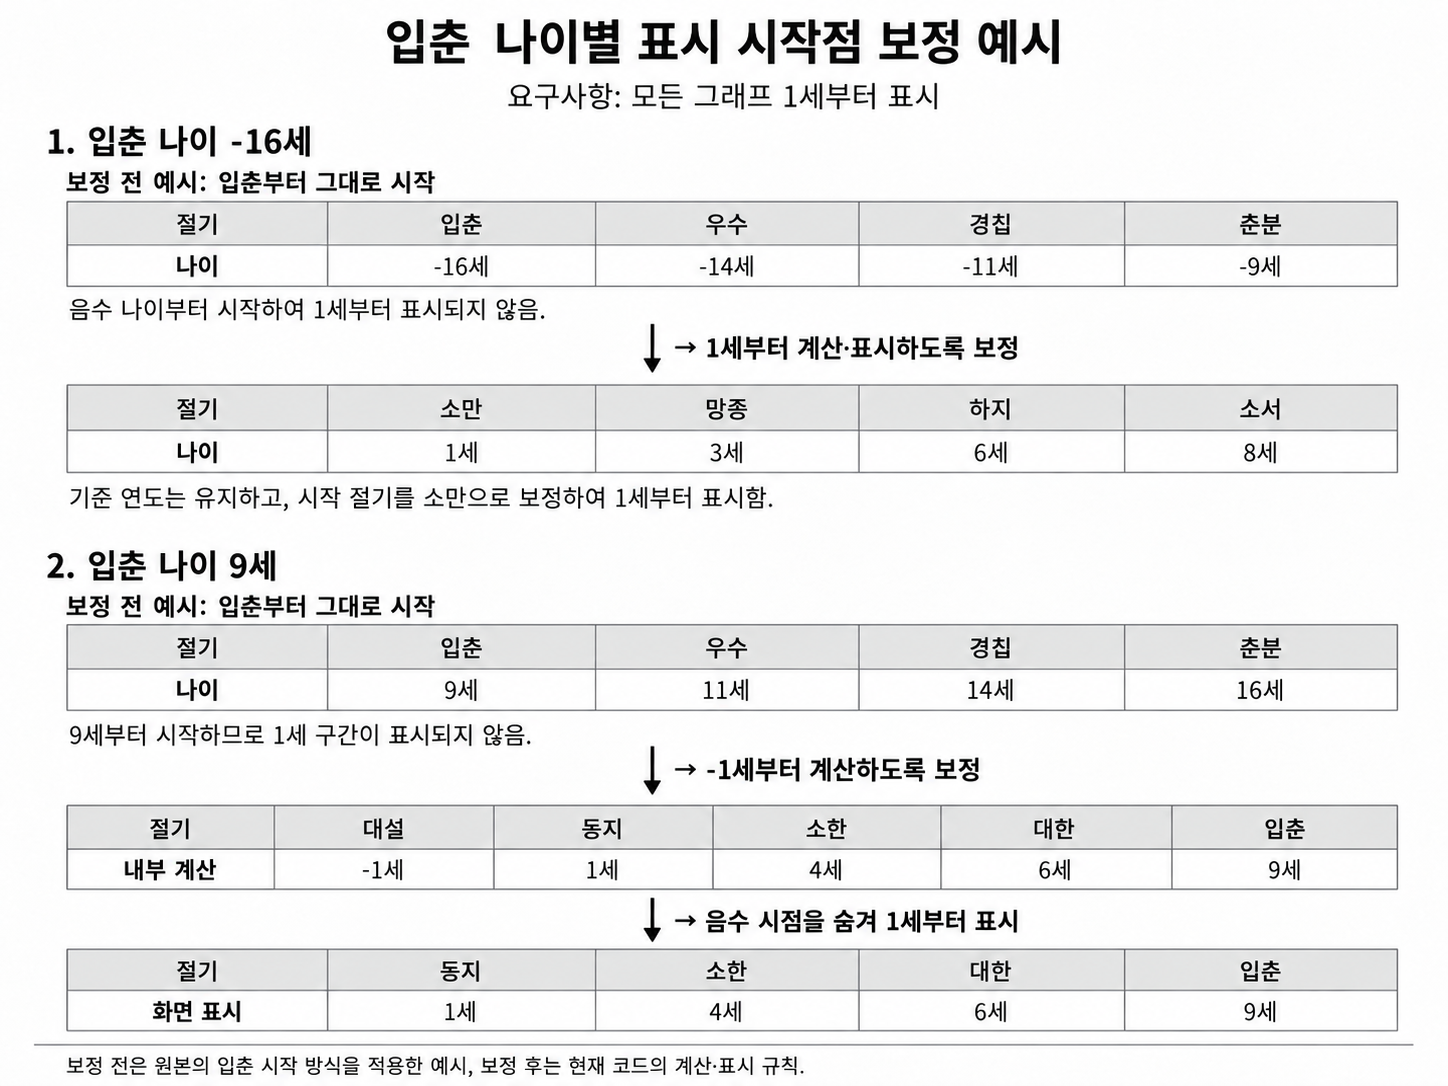
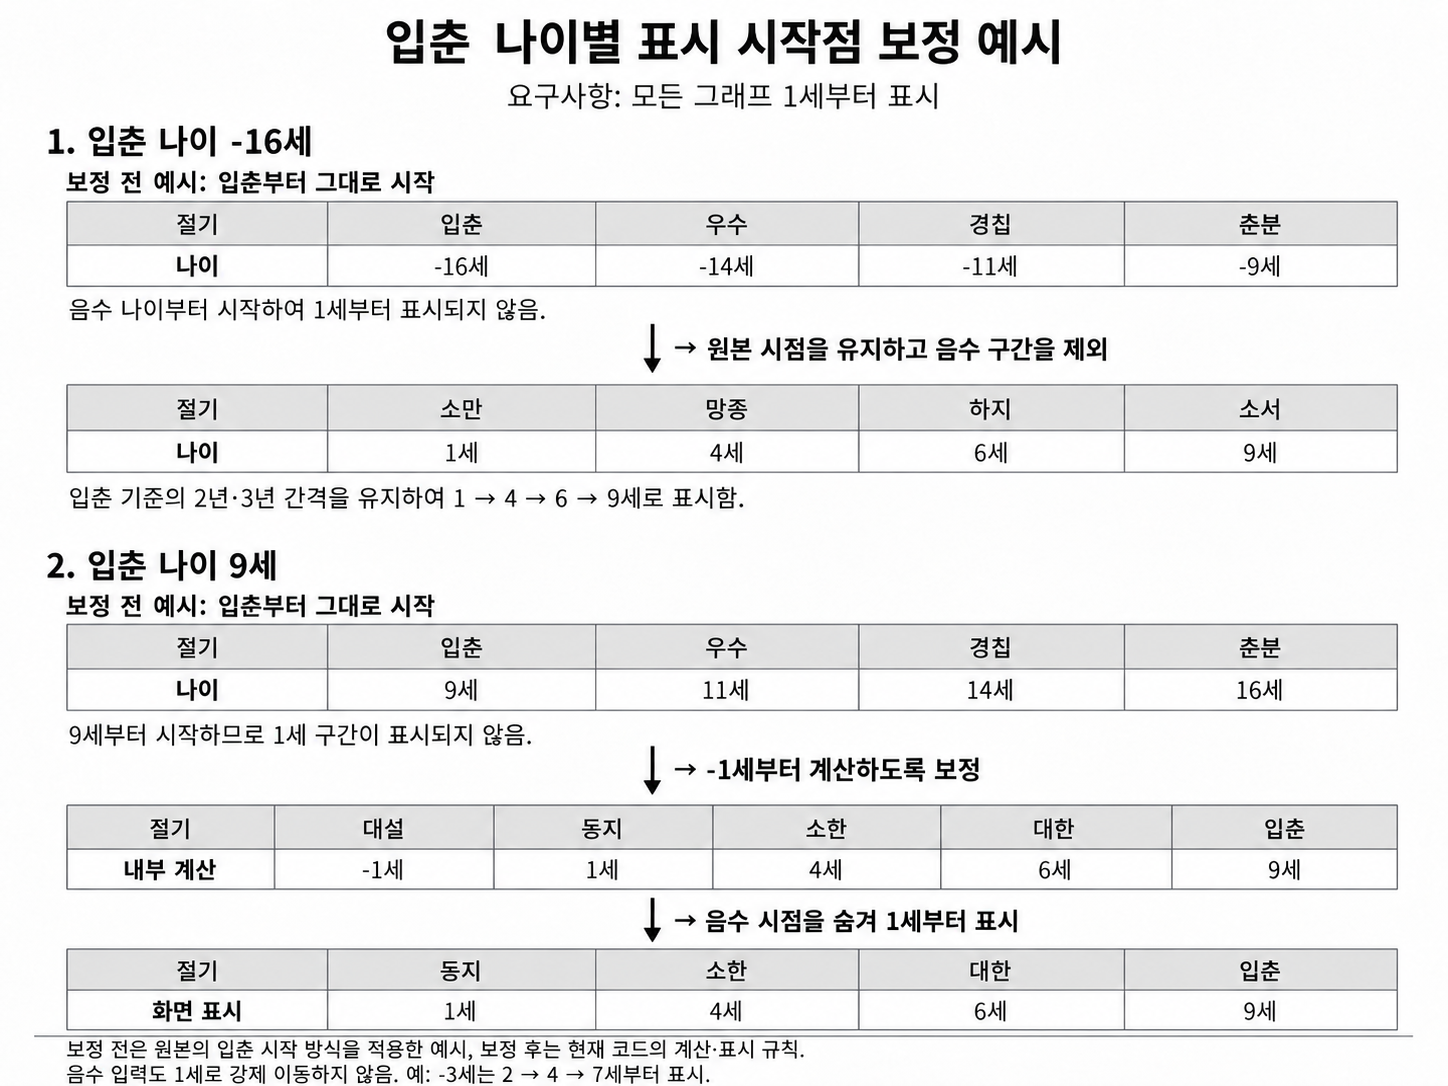
Fix negative-age timeline alignment and clarify README

diff --git a/src/logic/calculateConsultation.ts b/src/logic/calculateConsultation.ts
@@ -7,21 +7,11 @@ function mod(value: number, divisor: number): number {
   return ((value % divisor) + divisor) % divisor;
 }
 
-function pointIndexForElapsedYears(elapsedYears: number): number {
-  const targetYears = Math.abs(elapsedYears);
-  let nearestIndex = 0;
-  YEAR_OFFSETS.forEach((offset, index) => {
-    const nearestDistance = Math.abs(YEAR_OFFSETS[nearestIndex] - targetYears);
-    const distance = Math.abs(offset - targetYears);
-    if (distance < nearestDistance || (distance === nearestDistance && offset >= targetYears)) {
-      nearestIndex = index;
-    }
-  });
-  return nearestIndex;
+function yearOffsetFor(pointIndex: number): number {
+  return Math.floor(pointIndex / 2) * 5 + mod(pointIndex, 2) * 2;
 }
 
 function graphStartAgeFor(springAge: number): number {
-  if (springAge <= 0) return 1;
   const residue = mod(springAge, 5);
   if (residue === 0 || residue === 2) return 0;
   if (residue === 4) return -1;
@@ -29,19 +19,25 @@ function graphStartAgeFor(springAge: number): number {
 }
 
 export function calculateConsultation(input: ConsultationInput): ConsultationResult {
-  const graphStartAge = graphStartAgeFor(input.springAge);
-  const springOffset = input.springAge - graphStartAge;
-  const exactSpringIndex = YEAR_OFFSETS.indexOf(springOffset as (typeof YEAR_OFFSETS)[number]);
-  const fallbackYearsFromAgeOneToSpring = input.springAge - 1;
-  const fallbackDirection = fallbackYearsFromAgeOneToSpring === 0
-    ? 0
-    : -Math.sign(fallbackYearsFromAgeOneToSpring);
-  const fallbackStartPointIndex = fallbackDirection * pointIndexForElapsedYears(fallbackYearsFromAgeOneToSpring);
-  const startTermIndex = exactSpringIndex >= 0
-    ? mod(-exactSpringIndex, SOLAR_TERMS.length)
-    : mod(fallbackStartPointIndex, SOLAR_TERMS.length);
-
-  const ages = YEAR_OFFSETS.map((offset) => graphStartAge + offset);
+  let graphStartAge: number;
+  let startTermIndex: number;
+  let ages: number[];
+  if (input.springAge <= 0) {
+    // Keep the original ipchun-anchored 2/3-year phase when hiding pre-birth points.
+    const elapsedYears = -input.springAge;
+    const cycles = Math.floor(elapsedYears / 5);
+    const remainder = mod(elapsedYears, 5);
+    const firstPointIndex = cycles * 2 + (remainder === 0 ? 0 : remainder <= 2 ? 1 : 2);
+    startTermIndex = mod(firstPointIndex, SOLAR_TERMS.length);
+    ages = YEAR_OFFSETS.map((_, index) => input.springAge + yearOffsetFor(firstPointIndex + index));
+    graphStartAge = ages[0];
+  } else {
+    graphStartAge = graphStartAgeFor(input.springAge);
+    const springOffset = input.springAge - graphStartAge;
+    const springIndex = Math.floor(springOffset / 5) * 2 + (mod(springOffset, 5) === 2 ? 1 : 0);
+    startTermIndex = mod(-springIndex, SOLAR_TERMS.length);
+    ages = YEAR_OFFSETS.map((offset) => graphStartAge + offset);
+  }
   const years = ages.map((age) => input.springYear + age - 1);
   const displayStartIndex = ages.findIndex((age) => age >= 0);
 

diff --git a/src/logic/calculateConsultation.test.ts b/src/logic/calculateConsultation.test.ts
@@ -4,19 +4,44 @@ import { SOLAR_TERMS } from '../constants/solarTerms';
 import { calculateConsultation } from './calculateConsultation';
 
 const EXPECTED_1975_YEARS = [
-  1975, 1977, 1980, 1982, 1985, 1987, 1990, 1992, 1995, 1997, 2000, 2002,
-  2005, 2007, 2010, 2012, 2015, 2017, 2020, 2022, 2025, 2027, 2030, 2032,
-  2035, 2037, 2040, 2042, 2045, 2047, 2050, 2052, 2055, 2057, 2060, 2062,
-  2065, 2067, 2070, 2072, 2075,
+  1975, 1978, 1980, 1983, 1985, 1988, 1990, 1993, 1995, 1998, 2000, 2003,
+  2005, 2008, 2010, 2013, 2015, 2018, 2020, 2023, 2025, 2028, 2030, 2033,
+  2035, 2038, 2040, 2043, 2045, 2048, 2050, 2053, 2055, 2058, 2060, 2063,
+  2065, 2068, 2070, 2073, 2075,
 ];
 
 const EXPECTED_AGES_FROM_ONE = [
-  1, 3, 6, 8, 11, 13, 16, 18, 21, 23, 26, 28, 31, 33, 36, 38, 41, 43,
-  46, 48, 51, 53, 56, 58, 61, 63, 66, 68, 71, 73, 76, 78, 81, 83, 86, 88,
-  91, 93, 96, 98, 101,
+  1, 4, 6, 9, 11, 14, 16, 19, 21, 24, 26, 29, 31, 34, 36, 39, 41, 44,
+  46, 49, 51, 54, 56, 59, 61, 64, 66, 69, 71, 74, 76, 79, 81, 84, 86, 89,
+  91, 94, 96, 99, 101,
 ];
 
 describe('calculateConsultation', () => {
+  it.each([
+    { springAge: -1, firstIndex: 1, visibleAges: [1, 4, 6, 9, 11] },
+    { springAge: -2, firstIndex: 1, visibleAges: [0, 3, 5, 8, 10] },
+    { springAge: -3, firstIndex: 2, visibleAges: [2, 4, 7, 9, 12] },
+    { springAge: -4, firstIndex: 2, visibleAges: [1, 3, 6, 8, 11] },
+    { springAge: -5, firstIndex: 2, visibleAges: [0, 2, 5, 7, 10] },
+    { springAge: -16, firstIndex: 7, visibleAges: [1, 4, 6, 9, 11] },
+    { springAge: -103, firstIndex: 42, visibleAges: [2, 4, 7, 9, 12] },
+    { springAge: 0, firstIndex: 0, visibleAges: [0, 2, 5, 7, 10] },
+  ])('preserves Excel timing and values for spring age $springAge', ({ springAge, firstIndex, visibleAges }) => {
+    const result = calculateConsultation({ name: 'excel-phase', springYear: 2003, springAge });
+    expect(result.points.slice(0, 5).map((point) => point.age)).toEqual(visibleAges);
+    result.points.forEach((point, index) => {
+      const originalIndex = firstIndex + index;
+      const originalOffset = Math.floor(originalIndex / 2) * 5 + (originalIndex % 2 === 1 ? 2 : 0);
+      expect(point.age).toBe(springAge + originalOffset);
+      expect(point.year).toBe(2003 + point.age - 1);
+      expect(point.solarTerm).toBe(SOLAR_TERMS[originalIndex % 24]);
+      expect(point.psychology).toBe(FLOW_CYCLE[originalIndex % 24]);
+      expect(point.means).toBe(FLOW_CYCLE[((originalIndex - 4) % 24 + 24) % 24]);
+      expect(point.wealth).toBe(FLOW_CYCLE[((originalIndex - 8) % 24 + 24) % 24]);
+      expect(point.honor).toBe(FLOW_CYCLE[((originalIndex - 12) % 24 + 24) % 24]);
+    });
+  });
+
   it('keeps the birth year as age one when spring age is before age one', () => {
     const result = calculateConsultation({
       name: 'sample',
